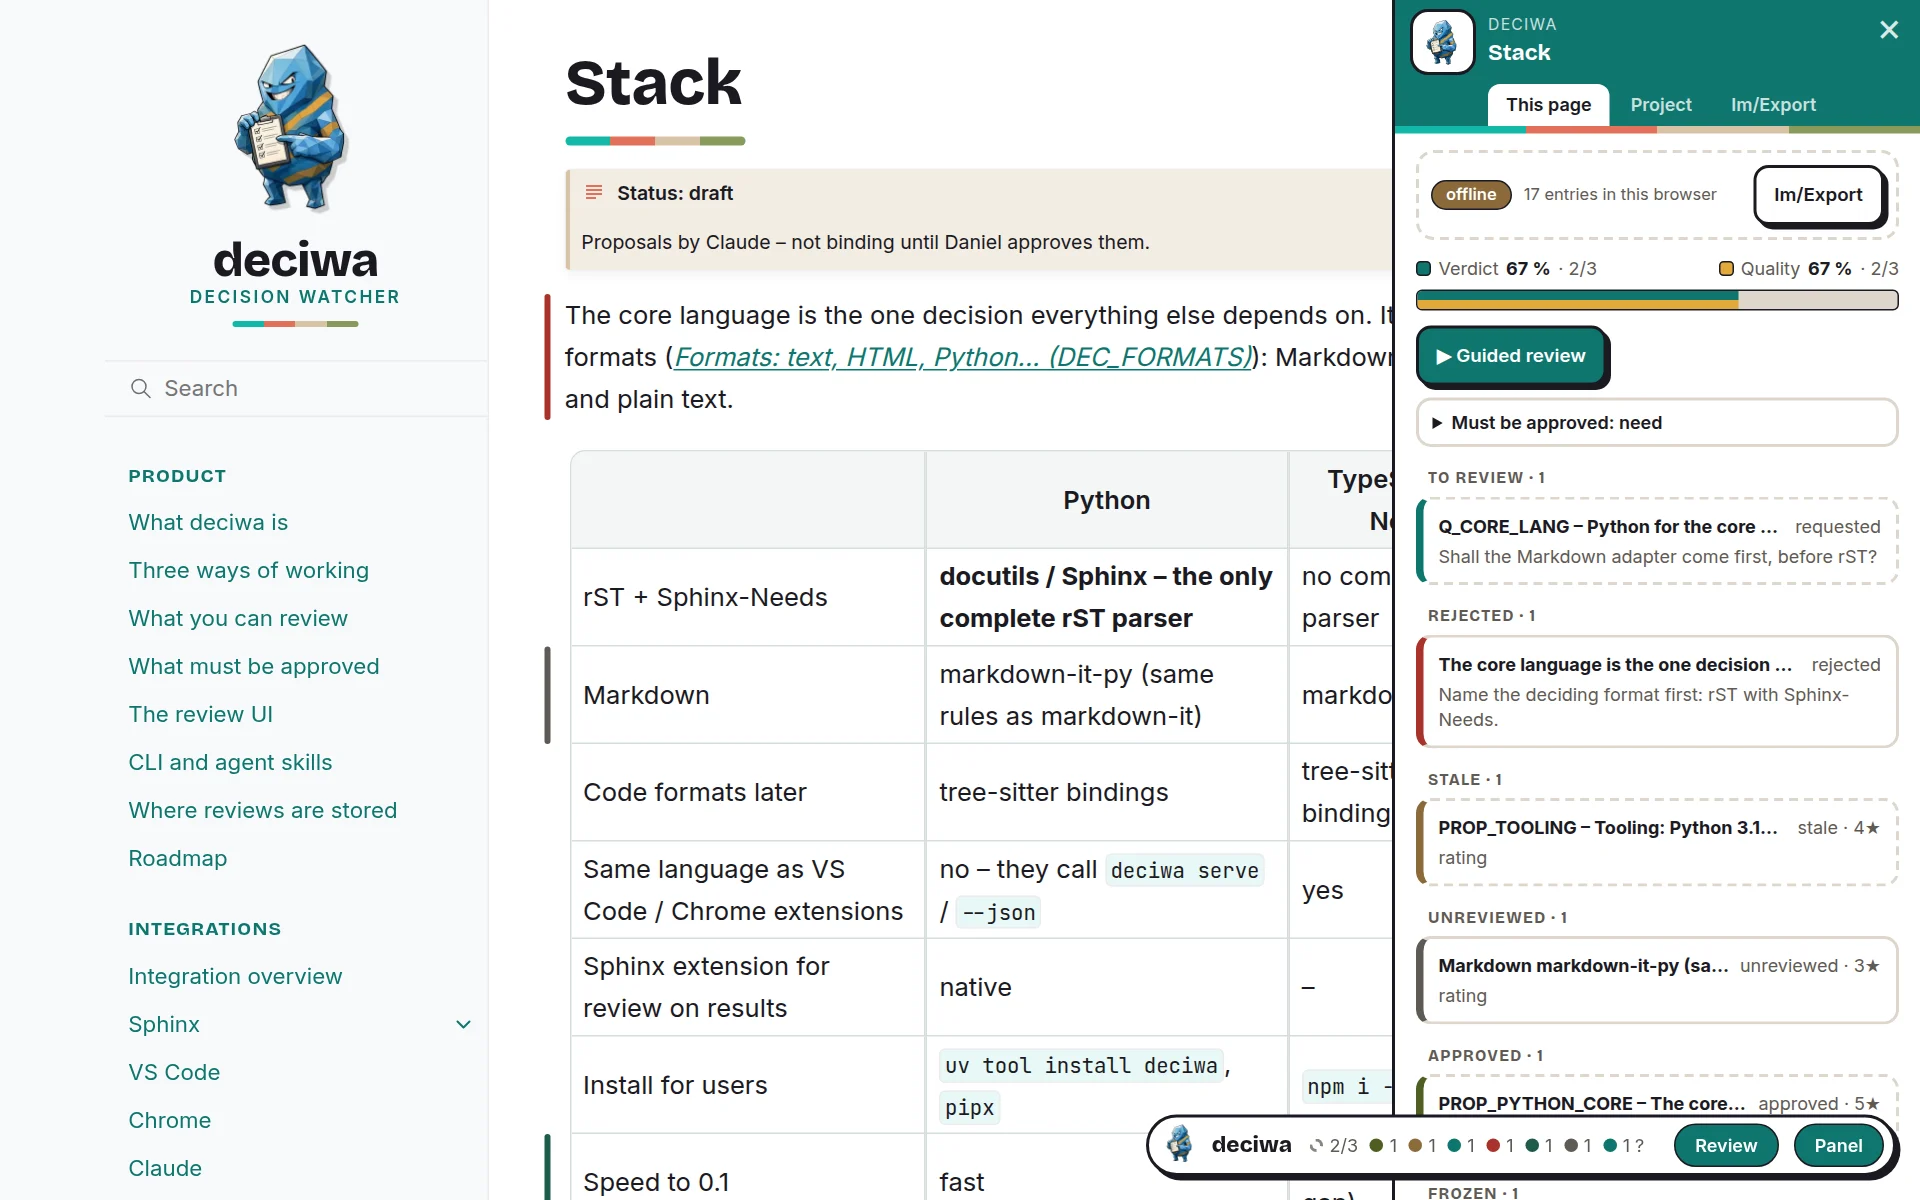
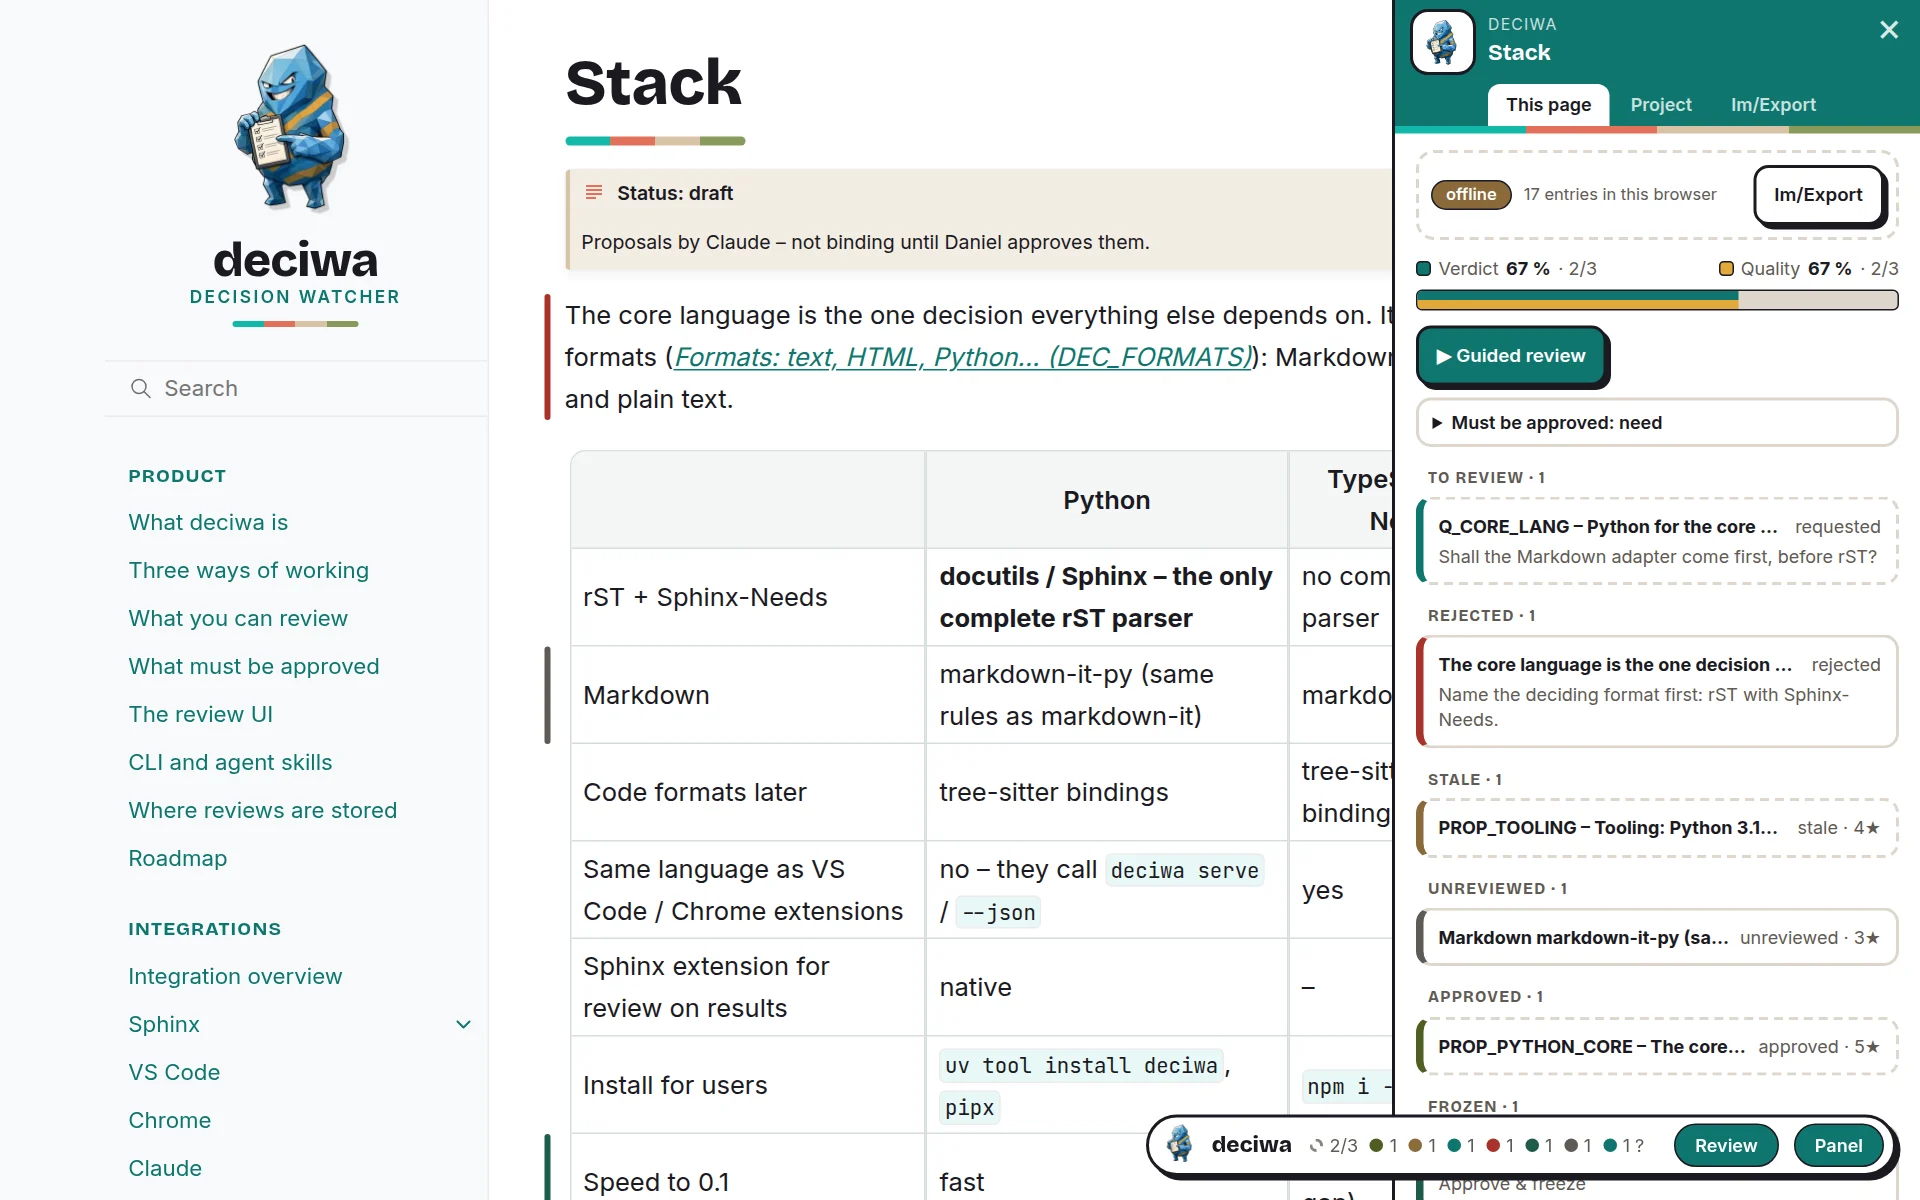
Review UI: readable panel entries (comment, question or verdict; stars apart); fresh screenshots

Changed region(s): [[0.7188, 0.7092, 1.0, 0.925], [0.7188, 0.9867, 0.8125, 1.0]]

diff --git a/packages/ui/src/deciwa/ui/static/deciwa-overlay.js b/packages/ui/src/deciwa/ui/static/deciwa-overlay.js
@@ -18,6 +18,8 @@
     note: "Comment", rephrase: "Rephrase", details: "More details" };
   const COLORS = { approve: "approved", reject: "rejected", freeze: "frozen", delete: "change",
     rephrase: "change", details: "change", note: "note" };
+  // one line about an annotation for lists: its comment or question, else its verdict; stars are shown apart
+  const describe = a => !a ? "" : a.comment || a.question || (a.kind === "feedback" ? LABELS[a.verdict] || a.verdict : "");
   const KEY2ACT = Object.fromEntries(Object.entries(ACTS).map(([v, a]) => [a.key, v]));
   const MONSTER = (document.currentScript?.src || "").replace(/deciwa-overlay\.js.*$/, "deciwa-monster.webp");
   const STATE_C = {
@@ -237,7 +239,7 @@
           const st = v.elements[e.selector], last = st ? st.annotations.at(-1) : {};
           return { selector: e.selector, label: e.label, kind: e.kind, state: st ? st.state : "unreviewed", required: req.has(e.selector),
             decided: hasVerdict(st), rated: !!st && st.stars !== null,
-            stars: st ? st.stars : null, requested: st ? st.requested : false, last: last.comment || last.question || last.verdict || "" };
+            stars: st ? st.stars : null, requested: st ? st.requested : false, last: describe(st && last) };
         });
         const d = items.filter(i => i.required && DONE_.includes(i.state)).length;
         const dc = items.filter(i => i.required && i.decided).length, rt = items.filter(i => i.required && i.rated).length;
@@ -427,7 +429,7 @@
     if (todo.length) {
       html += `<h4>To review · ${todo.length}</h4>` + todo.map(sel => {
         const last = view.elements[sel]?.annotations.at(-1);
-        return item(sel, stateName(sel), last ? (last.comment || last.question || last.verdict || last.kind) : "");
+        return item(sel, stateName(sel), describe(last));
       }).join("");
     }
     const groups = {};
@@ -439,7 +441,7 @@
       if (!groups[s]) continue;
       html += `<h4>${esc(s)} · ${groups[s].length}</h4>` + groups[s].map(([sel, st]) => {
         const last = st.annotations.at(-1);
-        return item(sel, s, last.comment || last.question || last.verdict || last.kind);
+        return item(sel, s, describe(last));
       }).join("");
     }
     if (!todo.length && !Object.keys(view.elements).length && !view.orphans.length)
@@ -466,7 +468,7 @@
         <summary><b>${esc(pg.title)}</b><span>${pg.required ? `${pg.decided}/${pg.required} · ${pg.rated}★` : ""}${pg.orphans ? ` · ${pg.orphans} orphaned` : ""}</span></summary>
         ${items.map(i => `<div class="item${i.required ? " required" : ""}" data-doc="${esc(pg.doc)}" data-sel="${esc(i.selector)}" style="--c:${cv(STATE_C[i.state])}">
           <div class="t"><b>${esc(i.label)}</b><span>${esc(i.state)}${i.stars != null ? " · " + i.stars + "★" : ""}${i.requested ? " · ?" : ""}</span></div>
-          ${i.last ? `<div class="c">${esc(i.last)}</div>` : ""}</div>`).join("")}
+          ${i.last ? `<div class="c">${esc(LABELS[i.last] || i.last)}</div>` : ""}</div>`).join("")}
       </details>`;
     }
     if (quiet.length) html += `<h4>No feedback · ${quiet.length} pages</h4><div class="quiet">${quiet.map(pg =>
